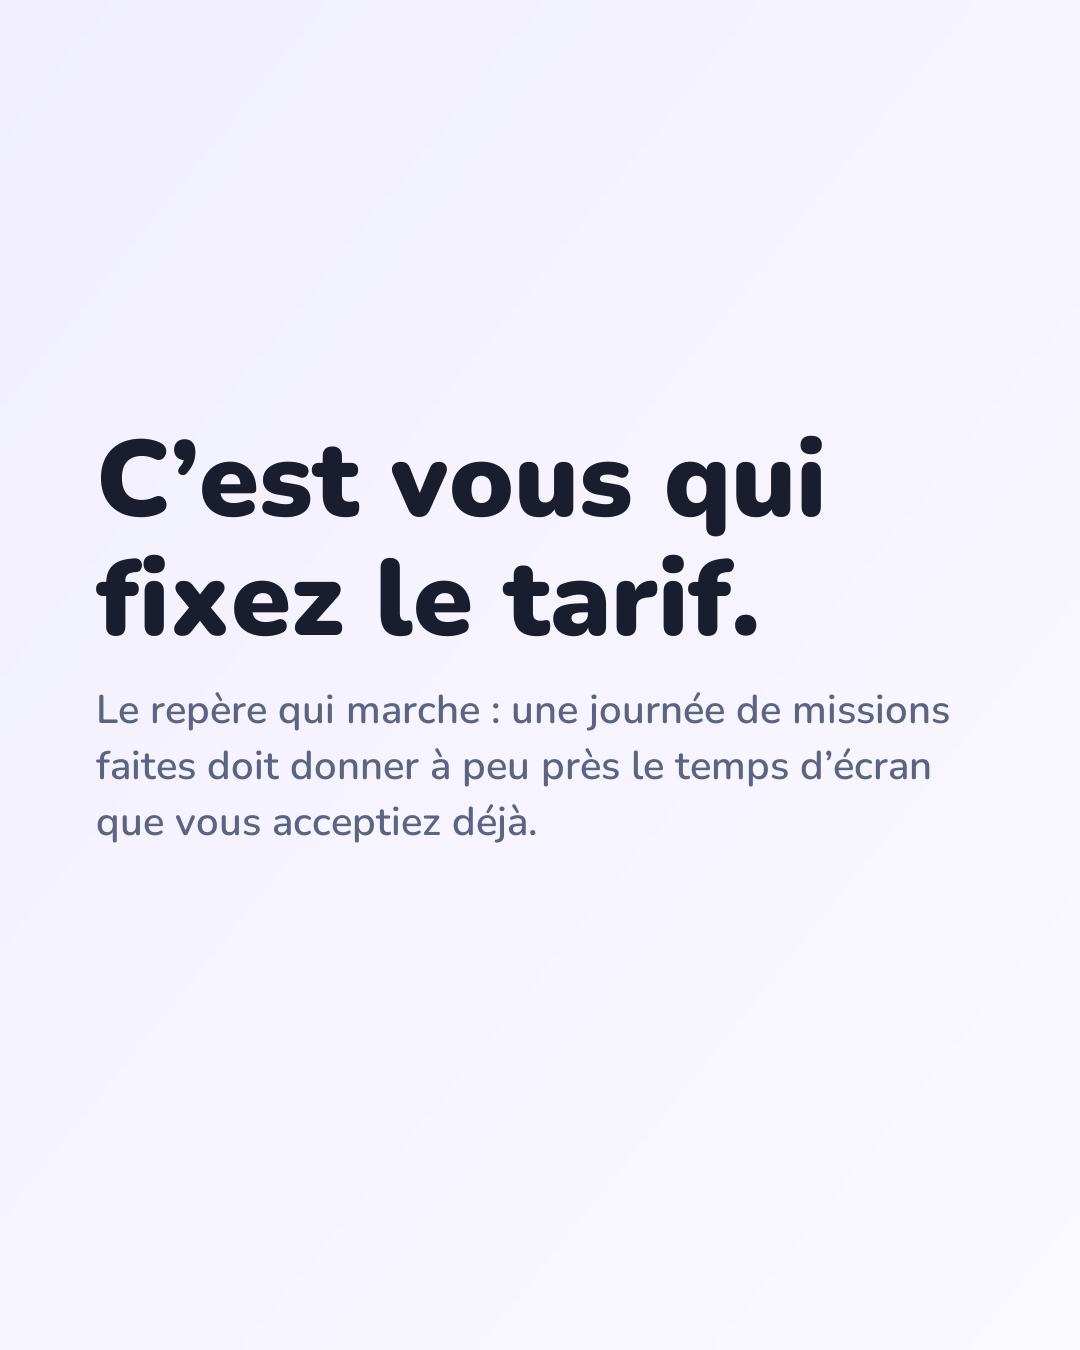
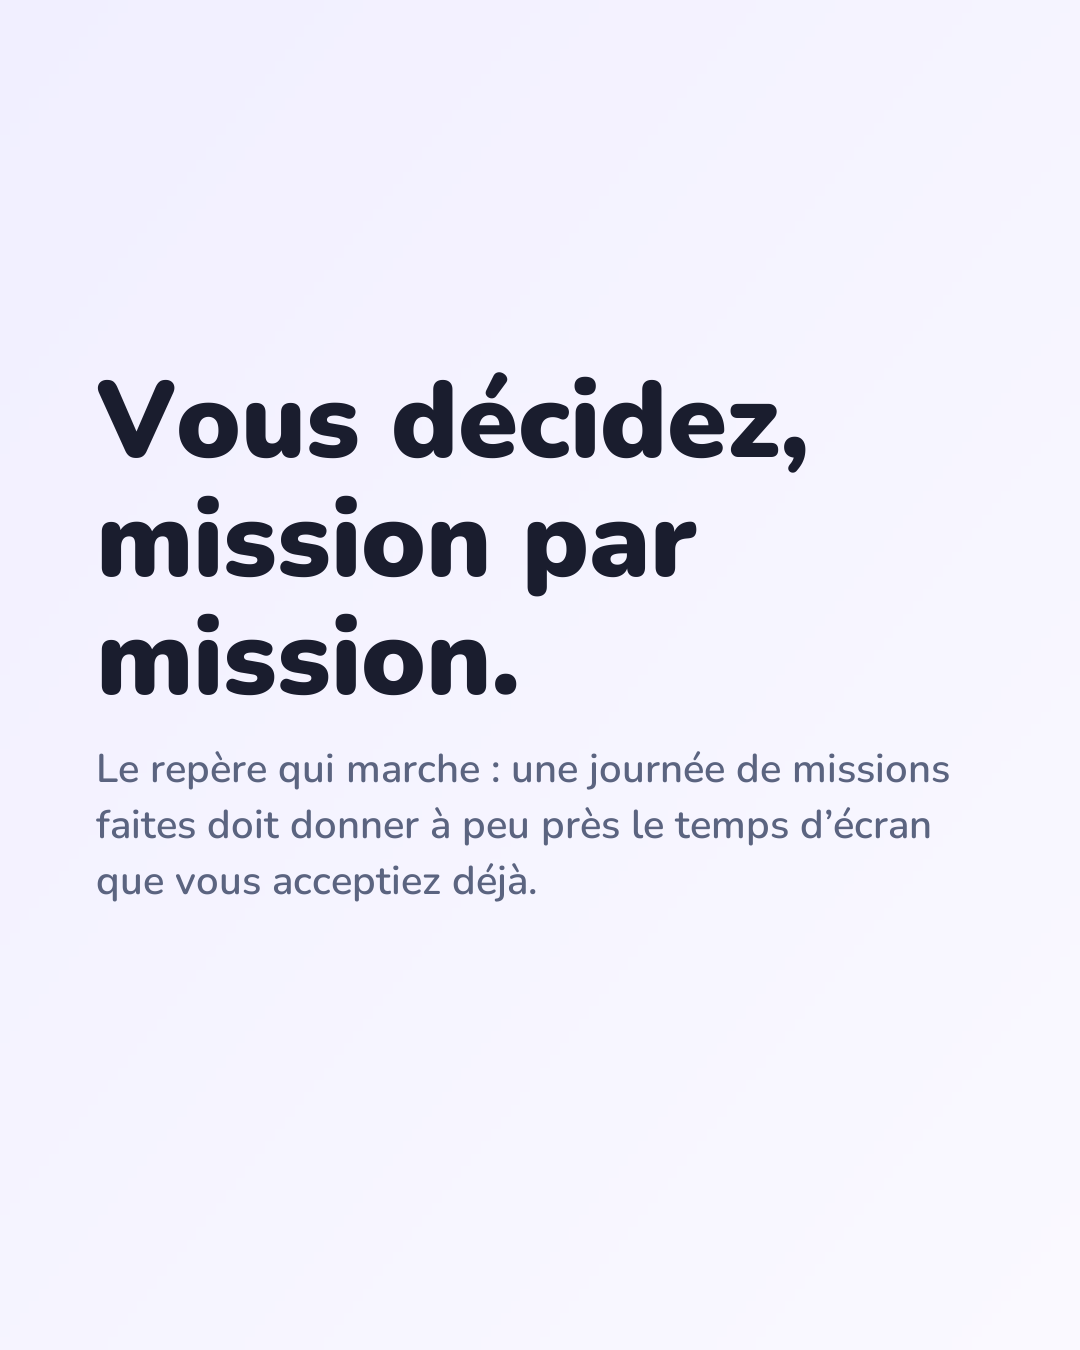
La politique interdisait au site ce que le marketing s'apprêtait à y poser
Julie veut un pixel Meta pour son ciblage. La session marketing lui a répondu
que « le dépôt n'affirme l'absence de mesure que dans l'application ». C'est
faux, et c'est le genre d'erreur qui se publie.

La section 11 de la politique parlait explicitement du site : « Notre site web
n'utilise que les cookies strictement nécessaires à son fonctionnement et au
paiement, QUI NE REQUIÈRENT PAS DE CONSENTEMENT PRÉALABLE. Nous n'utilisons pas
de régie publicitaire. » Trois affirmations qui tombent le jour où un pixel est
en ligne. Et le chapeau en portait une quatrième, sans périmètre : « Pas de
traceur publicitaire. »

LA RÉÉCRITURE CHANGE DE NATURE, pas seulement de mots. La section décrivait un
INVENTAIRE — il n'y a rien. Elle décrit maintenant une RÈGLE — rien sans
consentement, refus aussi simple qu'accepter, choix révocable. Elle est donc
vraie aujourd'hui, où il n'y a aucun traceur, et elle le restera le jour où le
bandeau existera. C'est la seule forme qui n'oblige pas à republier un texte
légal au moment précis où l'on est pressé.

Le chapeau limite désormais sa promesse à l'application, où elle est absolue et
le restera : « Aucune publicité et aucun traceur dans l'application. Ce point ne
dépend d'aucun réglage : il n'y a rien à refuser, parce qu'il n'y a rien. »

Et une troisième phrase dit ce que la première version laissait deviner : ces
cookies-là, s'ils existent un jour, ne concernent que le site, ne suivent
[…]

Changed region(s): [[0.0917, 0.28, 0.8861, 0.6844]]

diff --git a/src/content/privacy.ts b/src/content/privacy.ts
@@ -22,7 +22,7 @@ export const PRIVACY: LegalDocument = {
     },
     {
       kind: 'note',
-      text: 'Pas de publicité. Pas de revente de données. Pas de traceur publicitaire. Pas de géolocalisation. Pas de messagerie entre personnes. Pas de profil public. Aucun enfant n’est visible par une autre famille que la sienne.',
+      text: 'Aucune publicité et aucun traceur dans l’application. Pas de revente de données. Pas de géolocalisation. Pas de messagerie entre personnes. Pas de profil public. Aucun enfant n’est visible par une autre famille que la sienne.',
     },
   ],
   sections: [
@@ -291,11 +291,19 @@ export const PRIVACY: LegalDocument = {
       ],
     },
     {
-      title: '11. Cookies',
+      title: '11. Cookies et mesure',
       blocks: [
         {
           kind: 'p',
-          text: 'L’application mobile n’utilise aucun cookie publicitaire ni traceur tiers. Notre site web n’utilise que les cookies strictement nécessaires à son fonctionnement et au paiement, qui ne requièrent pas de consentement préalable. Nous n’utilisons pas de régie publicitaire.',
+          text: 'L’application mobile n’utilise aucun cookie publicitaire ni traceur tiers, et n’affiche aucune publicité. Ce point ne dépend d’aucun réglage : il n’y a rien à refuser, parce qu’il n’y a rien.',
+        },
+        {
+          kind: 'p',
+          text: 'Notre site web, lui, dépose sans votre accord les seuls cookies strictement nécessaires à son fonctionnement et au paiement. Si nous recourons à des cookies de mesure d’audience ou de publicité — pour savoir quelles annonces amènent des familles jusqu’à nous —, ils ne sont déposés qu’APRÈS votre consentement, recueilli par un bandeau au premier passage. Refuser doit vous coûter le même nombre de clics qu’accepter, et vous pouvez revenir sur votre choix à tout moment depuis la même page.',
+        },
+        {
+          kind: 'p',
+          text: 'Ces cookies-là, s’ils existent, ne concernent que le site : ils ne suivent personne dans l’application, et aucun enfant n’est jamais concerné — un enfant n’a rien à faire sur notre site, et l’application n’en dépose aucun.',
         },
       ],
     },

diff --git a/docs/marketing/posts-lancement-reseaux.md b/docs/marketing/posts-lancement-reseaux.md
@@ -1,6 +1,7 @@
-# DIX POSTS DE LANCEMENT — INSTAGRAM & TIKTOK
+# LES POSTS DE LANCEMENT — INSTAGRAM & TIKTOK
 
-*Chaque post ouvre sur une scène que le parent reconnaît. Le produit arrive en réponse, jamais en sujet.*
+*Quatre carrousels, dix posts fixes, un Reel.*
+*Chaque post ouvre sur une scène ou sur une mission réelle. Le produit arrive en réponse, jamais en sujet.*
 *La ligne qui porte la série est déjà arbitrée : **« Le temps d'écran se gagne, il ne se négocie plus. »***
 
 - **Visuels :** `docs/marketing/visuels-lancement/` — 32 PNG en **1080 × 1350** (4:5, le format du fil Instagram). Couverture Reel / TikTok en 1080 × 1920.
@@ -77,66 +78,11 @@ Le troc, montré nu. C'est ce qui se comprend en une seconde et se raconte à un
 >
 > Chez vous, ça se réclame trois fois. Dans Mino, ça se compte.
 >
-> Et c'est vous qui fixez le tarif de chaque mission. Le repère qui marche : une journée de missions faites doit donner à peu près le temps d'écran que vous acceptiez déjà. Cinq minutes pour un geste rapide, dix à quinze pour une vraie tâche, vingt pour un effort long.
+> Et c’est vous qui décidez du temps que chaque mission fait gagner. Le repère qui marche : une journée de missions faites doit donner à peu près le temps d'écran que vous acceptiez déjà. Cinq minutes pour un geste rapide, dix à quinze pour une vraie tâche, vingt pour un effort long.
 >
-> Soixante-six missions sont déjà écrites, rangées en douze routines — la routine du matin, celle du coucher, les devoirs, la chambre. Vous choisissez, vous ajustez, et c'est parti.
+> Cinquante-quatre missions sont déjà écrites, rangées en douze routines — la routine du matin, celle du coucher, les devoirs, la chambre. Vous choisissez, vous ajustez, et c'est parti.
 
 `#routine #parentalité #enfants #famille #tempsdécran #autonomie #routinedumatin`
-
----
-
-## POST 04 — Ce n'est plus à vous de dire non
-
-**Carrousel 3 vues** · `post04-1` → `post04-3`
-Le vrai bénéfice, et il n'est dans aucune liste de fonctionnalités : le parent cesse d'être celui qui arrête.
-
-> Le plus dur, dans le temps d'écran, ce n'est pas le temps d'écran. C'est d'être celui qui l'arrête. Tous les soirs. Face à quelqu'un qu'on aime.
->
-> Avec Mino, la réponse ne vient plus de vous. Elle vient de ce que votre enfant a fait dans la journée. Le compteur dit ce qu'il reste ; vous n'avez plus à le dire à sa place.
->
-> Ce qui vous reste, c'est le bon rôle : confirmer une mission, ajouter un bonus quand le coup de main était spontané, offrir une plage libre un mercredi.
->
-> Vous, vous pouvez dire oui.
-
-`#parentalité #viedeparent #famille #enfants #tempsdécran #éducation`
-
-✓ *« Le compteur dit ce qu'il reste » décrit la mécanique, pas un résultat promis. Aucune formule du type « moins de disputes » — Mino ne promet nulle part un résultat éducatif.*
-
----
-
-## POST 05 — « À quatorze ans, il va me rire au nez. »
-
-**Carrousel 4 vues** · `post05-1` → `post05-4`
-L'objection n°1. On donne raison au parent avant de répondre : c'est ce qui rend la réponse crédible.
-
-> Vous vous dites qu'à quatorze ans, une application avec une mascotte et des confettis, c'est perdu d'avance.
->
-> Vous avez raison. Un adolescent à qui l'on sert des confettis et une monnaie appelée « minos » ferme l'application et ne la rouvre pas.
->
-> C'est pour ça qu'à treize ans, Mino change. On ne parle plus de minos mais de minutes. Les célébrations disparaissent. La mise en page devient sobre. Et les missions proposées ne parlent plus de se brosser les dents, mais d'autonomie, de travail et d'équilibre.
->
-> L'âge se règle sur sa fiche, et tout suit.
-
-`#ado #adolescent #parentalité #famille #tempsdécran #autonomie #collège`
-
-⚠ **Un seul registre d'âge par vue.** « minos » et « minutes » ne se croisent jamais dans la même image, et aucune tranche d'âge n'enjambe 13 ans.
-
----
-
-## POST 06 — Il a gagné 20 minutes. Personne ne peut les lui reprendre.
-
-**Carrousel 3 vues** · `post06-1` → `post06-3`
-Ce qui rassure l'enfant rassure le parent. Le conseil final va contre l'intérêt immédiat du parent — c'est ce qui le rend crédible.
-
-> Une minute gagnée est acquise. Pas « en principe » : par construction.
->
-> Il n'existe aucun bouton, nulle part, qui retire à un enfant du temps qu'il a gagné. Une erreur se corrige en ajoutant une ligne, jamais en effaçant.
->
-> Pourquoi si strict ? Parce qu'un compteur qu'on peut modifier et un historique finissent toujours par se contredire — et le jour où ça arrive, c'est devant un enfant qui a perdu des minutes qu'il avait gagnées. C'est la seule dispute que ce produit ne peut pas se permettre.
->
-> Un conseil, aussi, qui va contre votre intérêt du moment : ne renvoyez pas « à refaire » une mission réellement accomplie pour freiner le compteur. C'est le plus court chemin pour casser la confiance, et celle-là ne revient pas.
-
-`#parentalité #confiance #éducation #famille #enfants #tempsdécran`
 
 ---
 
@@ -158,58 +104,41 @@ Ce qui rassure l'enfant rassure le parent. Le conseil final va contre l'intérê
 
 ---
 
-## POST 08 — Le mercredi, on ne compte pas
+# DIX POSTS FIXES — UNE IMAGE CHACUN
 
-**Carrousel 2 vues** · `post08-1`, `post08-2`
-Désamorce l'objection tacite : « je ne veux pas que tout devienne un mérite chez moi. »
+*Pas de carrousel : une image, une mission, une idée.*
+*Chaque mission vient du catalogue réel (`src/domain/missionLibrary.ts`) — titre, emoji, minutes, tranche d'âge et consigne de sécurité sont copiés, pas inventés.*
 
-> Il y a des après-midi où on ne veut rien mériter. Le mercredi chez les grands-parents, le premier jour des vacances, le samedi où il pleut depuis le matin.
->
-> Dans une vraie famille, tout n'est pas mérité. Une application qui l'ignorerait vous obligerait à inventer une fausse mission « c'est mercredi ».
->
-> Alors vous déclarez une plage libre : un créneau ouvert, pendant lequel rien n'est décompté. Aucun compte à rebours ne s'affiche. C'est du temps qui n'est pas compté, parce qu'il n'a pas à l'être.
->
-> Et si la journée tourne autrement, vous l'arrêtez depuis votre accueil — pour aujourd'hui seulement. Mercredi prochain revient tout seul.
+**La règle d'écriture de la série.** On dit que la mission **existe** et ce qu'elle **apprend**. On ne dit jamais ce que l'enfant fera : ce serait une promesse de résultat, que le dépôt interdit. Et le temps gagné reste une petite pastille dans la carte, comme à l'écran — jamais un prix affiché en grand.
 
-`#mercredi #vacances #famille #parentalité #enfants #tempsdécran`
+| # | Fichier | Accroche | Mission |
+|---|---|---|---|
+| 1 | `tache01-lessive` | À treize ans, une machine à laver, c'est une première autonomie. | Lancer et étendre une lessive · 20 min · dès 13 ans |
+| 2 | `tache02-debarrasser` | Ce n'est pas l'assiette qui compte. | Débarrasser la table · 10 min · dès 5 ans |
+| 3 | `tache03-repas` | Cuisiner ensemble, c'est du temps passé côte à côte. | Aider à préparer le repas · 15 min · dès 7 ans |
+| 4 | `tache04-gouter` | Préparer le goûter. Pour tout le monde, pas juste pour soi. | Préparer le goûter pour tout le monde · 15 min · dès 8 ans |
+| 5 | `tache05-plantes` | La première mission des plus petits. | Arroser les plantes · 5 min · dès 5 ans |
+| 6 | `tache06-garde` | La première fois qu'on vous confie quelqu'un. | Garder mon frère ou ma sœur une heure · 30 min · dès 15 ans |
+| 7 | `tache07-mot-gentil` | Il existe une mission qui s'appelle « Dire un mot gentil ». | Dire un mot gentil à Elliott · 10 min · 5 à 12 ans |
+| 8 | `tache08-sans-telephone` | Une heure sans téléphone fait gagner du temps d'écran. | Une heure sans téléphone · 20 min · dès 13 ans |
+| 9 | `tache09-diner` | Dîner en famille sans téléphone. | Dîner en famille sans téléphone · 15 min · dès 13 ans |
+| 10 | `tache10-amis` | Voir ses amis en vrai. | Voir mes amis en vrai · 20 min · dès 13 ans |
 
----
+**Les quatre derniers ne sont pas des tâches ménagères, et c'est voulu.** Une application de temps d'écran qui écrit « Voir mes amis en vrai » et « Une heure sans téléphone » dans son propre catalogue dit quelque chose sur elle-même que dix arguments ne diraient pas. Ce sont les plus partageables de la série.
 
-## POST 09 — Trois enfants. Six écrans. Un seul abonnement.
+**Les consignes de sécurité sont dans l'image**, reprises mot pour mot du code — « Sans les couteaux : c'est l'adulte qui les range », « Un adulte reste joignable et responsable à tout moment ». Elles ne sont pas une réserve juridique : elles montrent qu'une application qui propose des tâches à des enfants sait où s'arrête ce qu'elle propose.
 
-**Carrousel 3 vues** · `post09-1` → `post09-3`
-L'argument de valeur, et il est réel : aucun plafond d'enfants ni d'appareils n'existe, ni dans le code ni dans la base.
-
-> Pas de supplément par enfant. Pas de supplément par appareil. Pas de plafond.
->
-> Un compte Mino est familial : autant d'enfants et autant d'appareils que vous voulez, sur le même abonnement. La tablette du salon, le vieux téléphone du grand, la console — tout entre dedans.
->
-> Et le deuxième parent rejoint depuis son propre téléphone avec le code famille. Pas d'adresse à donner, pas de mot de passe de plus à retenir. Il crée des missions, confirme, offre une minute, exactement comme vous.
-
-`#famille #fratrie #parentalité #enfants #tempsdécran #organisationfamiliale`
+**Écartés de la première version, à votre demande :** les poubelles, l'aspirateur, le linge sale, l'animal et les courses. Les accroches manquaient de bienveillance ou ne se comprenaient pas.
 
 ---
 
-## POST 10 — 30 jours pour voir si ça change quelque chose chez vous
+# CE QUI A ÉTÉ ÉCARTÉ
 
-**Carrousel 2 vues** · `post10-1`, `post10-2`
-Le prix arrive en fin de série, une fois la scène, la mécanique et la preuve passées.
+**Six carrousels retirés à votre demande** (15/09) : « Ce n'est plus à vous de dire non », « À quatorze ans, il va me rire au nez », « Personne ne peut les lui reprendre », « Le mercredi, on ne compte pas », « Trois enfants, six écrans, un seul abonnement », et « 30 jours pour voir » avec sa vue de prix. Manque de bienveillance pour les quatre premiers, incompréhensible pour le cinquième, et le prix n'a pas sa place dans un post.
 
-> On ne vous demande pas de nous croire. On vous demande d'essayer un mois.
->
-> Essai de 30 jours, pour tout le monde, sans exception. Le moyen de paiement est enregistré à l'inscription sans être débité, et la date du premier prélèvement s'affiche avant que vous confirmiez. Si ça ne change rien chez vous, vous arrêtez avant : la résiliation se fait dans les réglages de votre téléphone, en deux touches, et nous vous y emmenons.
->
-> Ensuite : 9,99 € par mois, ou 79,99 € par an — soit 6,67 € par mois, 4 mois offerts, 33 % de moins. Prix TTC, sans engagement, toute la famille comprise.
+**Restent quatre carrousels** — 01, 02, 03 et 07 — **et les dix posts fixes.**
 
-`#famille #parentalité #tempsdécran #enfants #essaigratuit`
-
-⚠ **« 6,67 € » ne paraît jamais seul.** Le montant réellement débité — 79,99 € par an — est sur la même ligne, dans le visuel comme dans la légende.
-
-⛔ **À vérifier avant de publier celui-ci :** l'offre d'introduction « Gratuit · 1 mois » est-elle configurée dans App Store Connect **et** dans Play Console, sur les deux formules ? Sans elle, la boutique prélève le plein tarif sous une promesse de gratuité — c'est déjà arrivé sur Google Play, et c'est le motif qui a fait refuser la 1.0.
-
----
-
-# CE QUI A ÉTÉ ÉCARTÉ DE LA SÉRIE
+## Les angles écartés plus tôt
 
 Quatre angles sont vrais, bien écrits, et ne vendent rien. Ils parlent du produit à quelqu'un qui l'a déjà adopté : ce sont des posts de deuxième trimestre, pas de lancement.
 

diff --git a/docs/ops/mesure-publicitaire.md b/docs/ops/mesure-publicitaire.md
@@ -1,0 +1,102 @@
+# Mesurer une campagne sans trahir la politique
+
+Écrit le 15 septembre 2026, quand Julie a demandé si elle pouvait suivre les
+parents avec un pixel Meta pour son ciblage. La réponse est oui sur le site,
+non dans l'application — et il y avait une phrase à changer avant, que la
+session marketing n'avait pas vue.
+
+---
+
+## Ce que le produit promettait, et qui bloquait
+
+La politique de confidentialité, section 11, disait :
+
+> « Notre site web n'utilise que les cookies strictement nécessaires à son
+> fonctionnement et au paiement, **qui ne requièrent pas de consentement
+> préalable**. Nous n'utilisons pas de régie publicitaire. »
+
+Trois affirmations devenaient fausses le jour où un pixel serait en ligne sur
+`minoapp.fr`. Et le chapeau de la politique en portait une quatrième, sans
+restriction de périmètre : « Pas de traceur publicitaire. »
+
+La section 11 est réécrite : elle décrit désormais une RÈGLE (rien sans
+consentement) plutôt qu'un INVENTAIRE (il n'y a rien). Elle est donc vraie
+aujourd'hui, où il n'y a aucun traceur, et elle restera vraie le jour où le
+bandeau et le pixel existeront. Le chapeau, lui, limite explicitement sa
+promesse à l'application.
+
+**Ce qui reste à faire avant qu'un pixel soit légitime**, et dans cet ordre :
+
+1. Publier la nouvelle politique — sur le site d'abord, dans l'application au
+   build suivant.
+2. Poser un bandeau de consentement sur le site : consentement **préalable**,
+   refus aussi simple qu'accepter, choix révocable. Il n'y en a pas
+   aujourd'hui, parce que la politique disait qu'il n'en fallait pas.
+3. Ne déclencher le pixel qu'après acceptation.
+
+Sans les trois, le site contredit son propre texte.
+
+---
+
+## Dans l'application : non, et ce n'est pas négociable
+
+Trois raisons qui tiennent chacune toute seule :
+
+- **La déclaration App Store.** « Aucune donnée n'est utilisée pour vous
+  suivre » a été remplie ainsi. Un SDK publicitaire la rend fausse, sur
+  précisément le point qu'un examinateur recoupe avec le binaire.
+- **`NSUserTrackingUsageDescription`.** Voir `docs/ops/fiche-app-store.md` : la
+  clé a déjà figuré dans `app.json` par erreur, avec une phrase bien
+  intentionnée, et elle annonce une capacité que le code n'a jamais eue.
+- **L'application est utilisée par des enfants.** Un traceur y collecterait des
+  données d'enfants, ce que le produit refuse et ce que la politique interdit.
+
+---
+
+## SKAdNetwork : compatible, et c'est le seul moyen de ne pas être aveugle sur iOS
+
+Les identifiants des régies dans `Info.plist` ne collectent rien, ne
+déclenchent aucune invite ATT, et ne changent pas la déclaration « aucune
+donnée utilisée pour vous suivre » — c'est le mécanisme qu'Apple propose **à la
+place** du suivi, pas une forme de suivi.
+
+Vérifié : la seule phrase du produit qui aurait pu gêner, « aucune mesure
+d'audience marketing » (`src/content/privacy.ts`, section sur l'expérience
+enfant), limite sa portée à l'expérience enfant. Elle reste vraie.
+
+**Ce qu'il faut, et que je ne peux pas inventer** : les identifiants viennent de
+Meta et de Google, et ils changent. Les prendre dans leur documentation au
+moment de compiler, jamais de mémoire ni d'un article de blog.
+
+Ils se posent dans `app.json`, sous `ios.infoPlist` :
+
+```json
+"SKAdNetworkItems": [
+  { "SKAdNetworkIdentifier": "…meta…" },
+  { "SKAdNetworkIdentifier": "…google…" }
+]
+```
+
+Le dépôt n'en contient aucun aujourd'hui.
+
+---
+
+## Ce qui marche déjà, sans rien poser
+
+- **Les analyses des boutiques**, gratuites : App Store Connect et la Play
+  Console donnent l'origine des installations, campagne par campagne.
+- **Une adresse de destination par campagne** vers `minoapp.fr/telecharger`,
+  qui aiguille ensuite selon l'appareil.
+- **Les codes de parrainage**, qui existent déjà et qui relient une famille à
+  celle qui l'a amenée.
+
+Pour CIBLER, Meta n'a besoin de rien dans l'application : une audience
+construite depuis les visiteurs du site suffit. Ce qu'on perd sans SKAdNetwork,
+c'est l'ATTRIBUTION de l'installation — savoir quelle annonce a produit quel
+téléchargement.
+
+---
+
+**Ce document n'est pas un avis juridique.** Julie a dit vouloir faire vérifier
+les textes par un juriste ; la section 11 réécrite fait partie de ce qui doit
+lui être montré.
